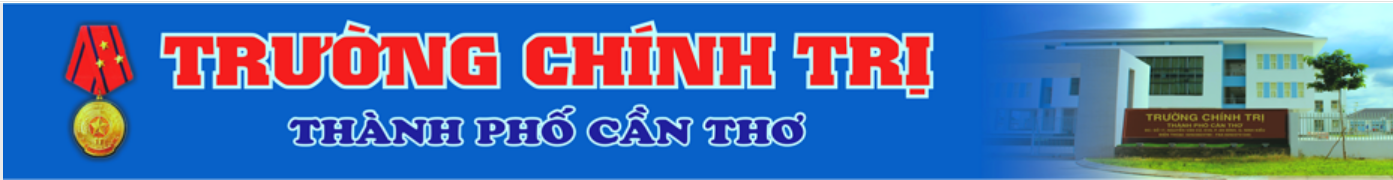
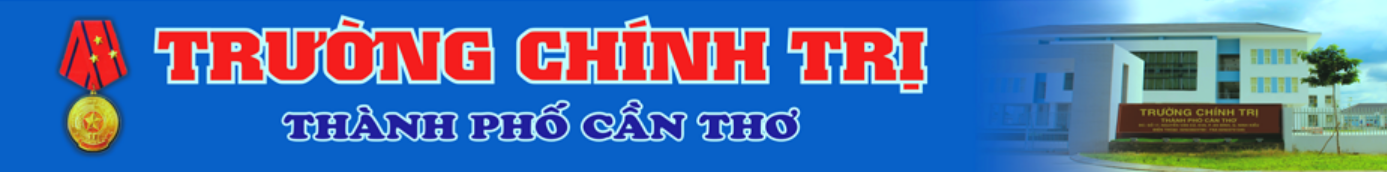
chỉnh sửa

diff --git a/backend-api/src/routes/subjectRoute.js b/backend-api/src/routes/subjectRoute.js
@@ -1,65 +1,16 @@
 const express = require("express");
 const router = express.Router();
-const Subject = require("../models/subjectModel");
+const ctrl = require("../controllers/subjectController");
 
-// GET all subjects
-router.get("/", async (req, res) => {
-  try {
-    const subjects = await Subject.getAll();
-    res.json(subjects);
-  } catch (err) {
-    res.status(500).json({ error: err.message });
-  }
-});
-
-// POST new subject
-router.post("/", async (req, res) => {
-  const { subject_name, subject_code } = req.body;
-  if (!subject_name || !subject_code) {
-    return res
-      .status(400)
-      .json({ error: "Thiếu subject_name hoặc subject_code" });
-  }
-  try {
-    await Subject.create({ subject_name, subject_code });
-    res.status(201).json({ message: "Thêm học phần thành công" });
-  } catch (err) {
-    res.status(500).json({ error: err.message });
-  }
-});
-
-// PUT update subject
-router.put("/:subject_id", async (req, res) => {
-  const { subject_name, subject_code } = req.body;
-  const { subject_id } = req.params;
-  try {
-    const updated = await Subject.updateById(subject_id, {
-      subject_name,
-      subject_code,
-    });
-    if (updated === 0) {
-      return res
-        .status(404)
-        .json({ error: "Không tìm thấy học phần để cập nhật" });
-    }
-    res.json({ message: "Cập nhật học phần thành công" });
-  } catch (err) {
-    res.status(500).json({ error: err.message });
-  }
-});
-
-// DELETE subject
-router.delete("/:subject_id", async (req, res) => {
-  const { subject_id } = req.params;
-  try {
-    const deleted = await Subject.deleteById(subject_id);
-    if (deleted === 0) {
-      return res.status(404).json({ error: "Không tìm thấy học phần để xóa" });
-    }
-    res.json({ message: "Xóa học phần thành công" });
-  } catch (err) {
-    res.status(500).json({ error: err.message });
-  }
-});
+// GET    /api/v1/subjects
+router.get("/", ctrl.getAllSubjects);
+// GET    /api/v1/subjects/:id
+router.get("/:id", ctrl.getSubjectById);
+// POST   /api/v1/subjects
+router.post("/", ctrl.createSubject);
+// PUT    /api/v1/subjects/:id
+router.put("/:id", ctrl.updateSubject);
+// DELETE /api/v1/subjects/:id
+router.delete("/:id", ctrl.deleteSubject);
 
 module.exports = router;

diff --git a/backend-api/src/controllers/subjectController.js b/backend-api/src/controllers/subjectController.js
@@ -1,9 +1,63 @@
-const db = require("../config/db");
+const subjectModel = require("../models/subjectModel");
 
-exports.getAllStudents = async (req, res) => {
+exports.getAllSubjects = async (req, res) => {
   try {
-    const subjects = await db("subjects").select("*");
-    res.json(subjects);
+    const list = await subjectModel.getAll();
+    res.json(list);
+  } catch (err) {
+    res.status(500).json({ error: err.message });
+  }
+};
+
+exports.getSubjectById = async (req, res) => {
+  const { id } = req.params;
+  try {
+    const item = await subjectModel.getById(id);
+    if (!item)
+      return res.status(404).json({ error: "Không tìm thấy học phần" });
+    res.json(item);
+  } catch (err) {
+    res.status(500).json({ error: err.message });
+  }
+};
+
+exports.createSubject = async (req, res) => {
+  const { subject_name, subject_code } = req.body;
+  if (!subject_name || !subject_code) {
+    return res.status(400).json({ error: "Thiếu tên hoặc mã học phần" });
+  }
+  try {
+    await subjectModel.create({ subject_name, subject_code });
+    res.status(201).json({ message: "Thêm học phần thành công" });
+  } catch (err) {
+    console.error(err);
+    res.status(500).json({ error: err.message });
+  }
+};
+
+exports.updateSubject = async (req, res) => {
+  const { id } = req.params;
+  const { subject_name, subject_code } = req.body;
+  try {
+    const count = await subjectModel.updateById(id, {
+      subject_name,
+      subject_code,
+    });
+    if (count === 0)
+      return res.status(404).json({ error: "Không tìm thấy học phần" });
+    res.json({ message: "Cập nhật thành công" });
+  } catch (err) {
+    res.status(500).json({ error: err.message });
+  }
+};
+
+exports.deleteSubject = async (req, res) => {
+  const { id } = req.params;
+  try {
+    const count = await subjectModel.deleteById(id);
+    if (count === 0)
+      return res.status(404).json({ error: "Không tìm thấy học phần" });
+    res.json({ message: "Xóa thành công" });
   } catch (err) {
     res.status(500).json({ error: err.message });
   }

diff --git a/backend-api/src/models/subjectModel.js b/backend-api/src/models/subjectModel.js
@@ -1,15 +1,20 @@
-// models/subjectModel.js
 const db = require("../config/db");
 
-const Subject = {
-  getAll: () => db("subjects").select("*"),
+module.exports = {
+  // Lấy danh sách tất cả học phần
+  getAll: () =>
+    db("subjects").select("subject_id", "subject_name", "subject_code"),
 
-  create: (subject) => db("subjects").insert(subject),
+  // Lấy một học phần theo ID
+  getById: (id) => db("subjects").where({ subject_id: id }).first(),
 
-  updateById: (subject_id, subject) =>
-    db("subjects").where({ subject_id }).update(subject),
+  // Tạo mới học phần, data = { subject_name, subject_code }
+  create: (data) => db("subjects").insert(data),
 
-  deleteById: (subject_id) => db("subjects").where({ subject_id }).del(),
+  // Cập nhật học phần theo ID
+  updateById: (id, data) =>
+    db("subjects").where({ subject_id: id }).update(data),
+
+  // Xóa học phần theo ID
+  deleteById: (id) => db("subjects").where({ subject_id: id }).del(),
 };
-
-module.exports = Subject;

diff --git a/frontend/src/pages/addSubject.jsx b/frontend/src/pages/addSubject.jsx
@@ -9,7 +9,7 @@ function AddSubject() {
   const handleSubmit = async (e) => {
     e.preventDefault();
     try {
-      await axios.post('http://localhost:3000/api/subjects', {
+      await axios.post('http://localhost:3000/api/v1/subjects', {
         subject_name: subjectName,
         subject_code: subjectCode
       });
@@ -23,7 +23,8 @@ function AddSubject() {
   };
 
   return (
-    <>
+    <> 
+    <div className="form-container">
       <h1 style={{ textAlign: 'center', marginBottom: '1.5rem' }}>Thêm học phần</h1>
       <form onSubmit={handleSubmit} style={{ maxWidth: 600, margin: '0 auto' }}>
         <div style={{ display: 'flex', alignItems: 'center', marginBottom: 15 }}>
@@ -75,6 +76,7 @@ function AddSubject() {
           THÊM
         </button>
       </form>
+      </div>
     </>
   );
 }

diff --git a/frontend/src/styles/index.css b/frontend/src/styles/index.css
@@ -23,15 +23,16 @@ body,
 
 .layout header {
     grid-area: header;
-    height: 150px;
+    height: 130px;
     position: relative;
     overflow: hidden;
+    background-color: #0861c8;
 }
 
 .layout header img {
     width: 100%;
     height: 100%;
-    object-fit: cover;
+    object-fit: contain;
 }
 
 .layout .sidebar {
@@ -59,3 +60,13 @@ body,
     background-color: #fff;
     padding: 2rem 3rem;
     overflow-y: auto; }
+
+.form-container {
+    margin-bottom: 2rem;
+    padding: 1.5rem;
+    border: 4px double #1976d2;
+    box-shadow: inset 0 0 0 2px #1976d2;
+    border-radius: 8px;
+    margin-left: 20%;
+    margin-right: 20%;
+}

diff --git a/backend-api/src/app.js b/backend-api/src/app.js
@@ -1,14 +1,22 @@
+// src/app.js
 const express = require("express");
 const cors = require("cors");
 require("dotenv").config();
 
+// Import route của Subject
 const subjectRoutes = require("./routes/subjectRoute");
 
 const app = express();
 
+// Middleware
 app.use(cors());
 app.use(express.json());
 
-app.use("/api/subjects", subjectRoutes);
+// Mount Subject routes ở /api/v1/subjects
+app.use("/api/v1/subjects", subjectRoutes);
+
+// Nếu cần thêm route khác, ví dụ:
+// const userRoutes = require("./routes/userRoute");
+// app.use("/api/v1/user", userRoutes);
 
 module.exports = app;
